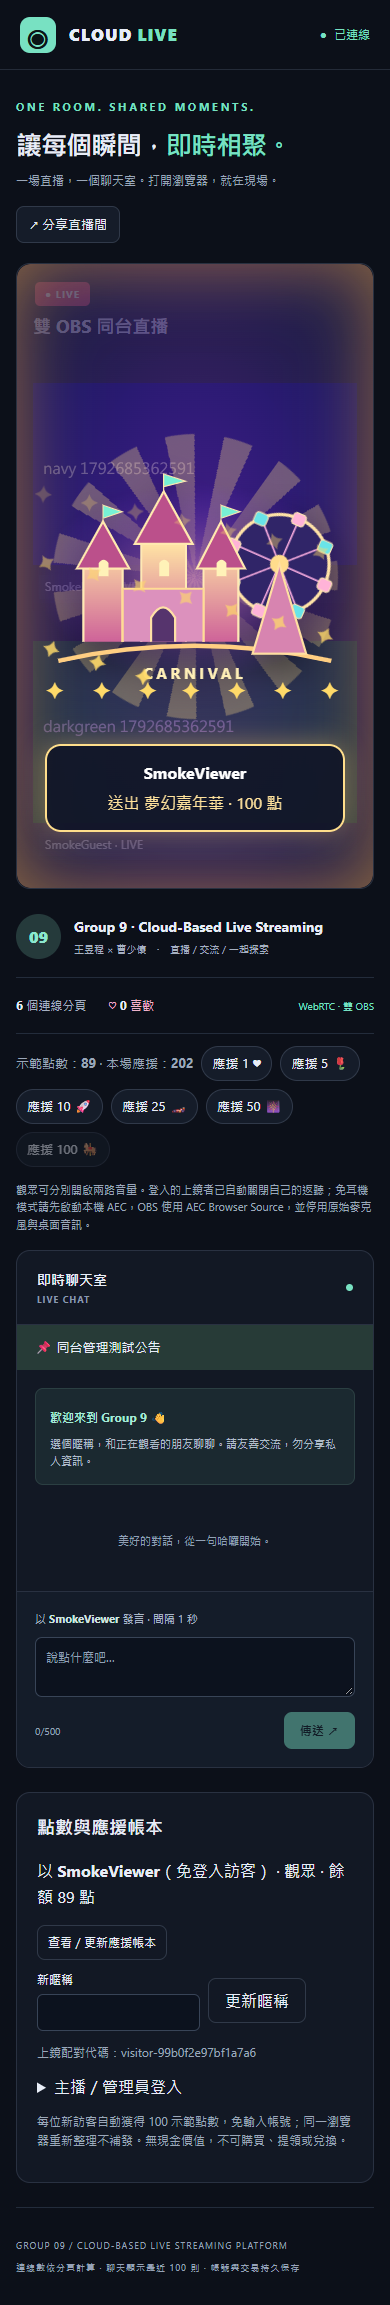
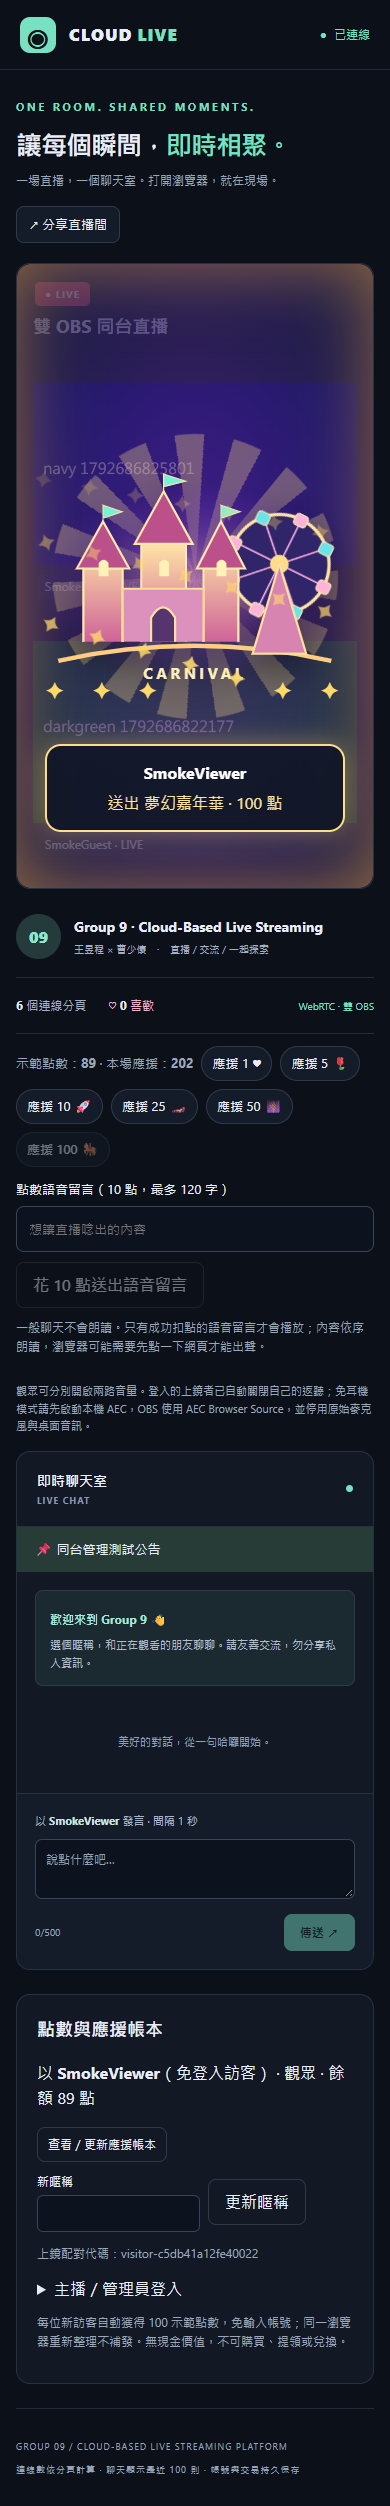
Add Enter chat sending and point-redeemed voice messages

diff --git a/course/src/main.jsx b/course/src/main.jsx
@@ -78,6 +78,7 @@ function App() {
   const [room, setRoom] = useState({ host: null, guest: null, broadcastId: null });
   const [chatSettings, setChatSettings] = useState({ announcement: '', slowSeconds: 1 });
   const [pendingDonation, setPendingDonation] = useState(null);
+  const [speechText, setSpeechText] = useState('');
   const [donating, setDonating] = useState(false);
   const [guestUsername, setGuestUsername] = useState('');
   const [audioChecklist, setAudioChecklist] = useState(false);
@@ -118,18 +119,17 @@ function App() {
       setOverlay({ type: 'chat', ...message });
       window.clearTimeout(window.__group9OverlayTimer);
       window.__group9OverlayTimer = window.setTimeout(() => setOverlay(null), 6000);
-      if ('speechSynthesis' in window) {
-        window.speechSynthesis.cancel();
-        const speech = new SpeechSynthesisUtterance(message.text.slice(0, 120));
-        speech.lang = 'zh-TW'; speech.rate = 1.05; speech.volume = 0.9;
-        window.speechSynthesis.speak(speech);
-      }
     };
     const onDonation = (gift) => {
       if (giftIds.current.has(gift.id)) return;
       giftIds.current.add(gift.id);
       if (giftIds.current.size > 1000) giftIds.current.delete(giftIds.current.values().next().value);
       setGifts((items) => [...items, gift]);
+      if (gift.message && 'speechSynthesis' in window) {
+        const speech = new SpeechSynthesisUtterance(gift.message);
+        speech.lang = 'zh-TW'; speech.rate = 1.05; speech.volume = 0.9;
+        window.speechSynthesis.speak(speech);
+      }
     };
     const onLike = ({ likes }) => { setState((value) => ({ ...value, likes })); setHeart((n) => n + 1); };
     const onDeleted = (id) => { setMessages((items) => items.filter((message) => message.id !== id)); setOverlay((value) => value?.id === id ? null : value); };
@@ -143,17 +143,19 @@ function App() {
   useEffect(() => { if (chat.current) chat.current.scrollTop = chat.current.scrollHeight; }, [messages]);
   useEffect(() => { if (user && pendingDonation && pendingDonation.senderId !== user.id) setPendingDonation(null); }, [user?.id, pendingDonation]);
   function send(event) {
-    event.preventDefault(); setError(''); setSending(true);
+    event.preventDefault();
+    if (!connected || sending || !text.trim()) return;
+    setError(''); setSending(true);
     socket.timeout(5000).emit('chat', text, (timeout, result) => {
       setSending(false);
       if (timeout || result.error) return setError(result?.error || '訊息未確認送達，請先查看聊天室再重試。');
       setText('');
     });
   }
-  async function donate(amount) {
-    const request = pendingDonation || { amount, requestId: crypto.randomUUID(), broadcastId: room.broadcastId, senderId: user?.id };
+  async function donate(amount, message = '') {
+    const request = pendingDonation || { amount, requestId: crypto.randomUUID(), broadcastId: room.broadcastId, senderId: user?.id, message };
     setPendingDonation(request); setDonating(true); setError('');
-    try { await command('donate', request); setPendingDonation(null); }
+    try { await command('donate', request); setPendingDonation(null); if (request.message) setSpeechText(''); }
     catch (error) { onError(error); }
     finally { setDonating(false); }
   }
@@ -177,6 +179,7 @@ function App() {
         <div className="stream-info"><div className="avatar">09</div><div><h2>Group 9 · Cloud-Based Live Streaming</h2><p>王昱程 × 曹少懷 <span>·</span> 直播 / 交流 / 一起探索</p></div></div>
         <div className="stream-actions"><span><b>{connected ? state.viewers : '—'}</b> 個連線分頁</span><button disabled={!connected} aria-label="為直播按讚" onClick={() => socket.timeout(5000).emit('like', (timeout, result) => { if (timeout || result.error) setError(result?.error || '按讚連線逾時。'); })}>♡ <b>{state.likes}</b> 喜歡</button><span className="quality">{useWebRTC ? 'WebRTC' : 'HLS'} · 雙 OBS</span></div>
         <div className="support-bar" aria-label="示範應援"><span>示範點數：<b>{user?.points || 0}</b> · 本場應援：<b>{state.supportTotal || 0}</b></span>{GIFTS.map(({ amount, name, icon }) => <button title={name} key={amount} disabled={!connected || !user || !room.host || room.host.userId === user.id || user.points < amount || donating || Boolean(pendingDonation)} onClick={() => donate(amount)}>應援 {amount}<span aria-hidden="true"> {icon}</span></button>)}{pendingDonation && <><button disabled={donating} onClick={() => donate(pendingDonation.amount)}>重查／重試同一筆應援</button><button disabled={donating} onClick={() => setPendingDonation(null)}>關閉待確認（請先查帳本）</button></>}</div>
+        <form className="speech-redeem" onSubmit={(event) => { event.preventDefault(); if (speechText.trim()) donate(10, speechText.trim()); }}><label>點數語音留言（10 點，最多 120 字）<input maxLength="120" disabled={donating || Boolean(pendingDonation)} value={speechText} onChange={(event) => setSpeechText(event.target.value)} placeholder="想讓直播唸出的內容" required/></label><button disabled={!connected || !user || !room.host || room.host.userId === user.id || user.points < 10 || donating || Boolean(pendingDonation) || !speechText.trim()}>花 10 點送出語音留言</button><p className="muted">一般聊天不會朗讀。只有成功扣點的語音留言才會播放；內容依序朗讀，瀏覽器可能需要先點一下網頁才能出聲。</p></form>
         <div className="play-hint">觀眾可分別開啟兩路音量。登入的上鏡者已自動關閉自己的返聽；免耳機模式請先啟動本機 AEC，OBS 使用 AEC Browser Source，並停用原始麥克風與桌面音訊。{!useWebRTC && 'HLS 影音會比聊天稍晚。'}</div>
         {user && (room.host?.userId === user.id || room.guest?.userId === user.id) && <OBSControls command={command} onError={onError}/>}
         {management && <section className="management" aria-label="OBS 直播間控制"><h2>OBS 直播間控制</h2>{room.host ? <><p>本場主持人：{room.host.nickname} · 第二位：{room.guest?.nickname}</p><button disabled={roomBusy || (room.host.userId !== user.id && user.role !== 'admin')} onClick={() => roomAction('room:end')}>結束本場應援記帳</button><p className="muted">結束記帳不會遙控 OBS；兩台電腦仍需各自按「停止串流」。</p></> : <form className="account-form" onSubmit={(event) => { event.preventDefault(); roomAction('room:start'); }}><label>第二台參與者帳號<input required maxLength="64" value={guestUsername} onChange={(e) => setGuestUsername(e.target.value)}/></label><label className="checklist"><input type="checkbox" checked={audioChecklist} onChange={(e) => setAudioChecklist(e.target.checked)}/>兩台均已啟動 AEC Browser Source、停用原始麥克風與桌面音訊</label><button disabled={!audioChecklist || roomBusy}>開啟雙 OBS 直播間</button></form>}</section>}
@@ -188,7 +191,7 @@ function App() {
           {messages.length === 0 && <div className="empty-chat">美好的對話，從一句哈囉開始。</div>}
           {messages.map((message) => <div className="message" key={message.id}><div className="message-meta"><strong>{message.nickname}</strong><time dateTime={message.at}>{new Date(message.at).toLocaleTimeString('zh-TW', { hour: '2-digit', minute: '2-digit' })}</time></div><p>{message.text}</p>{user && <div className="message-tools"><button onClick={() => { const reason = window.prompt('檢舉原因（最多 200 字）'); if (reason) command('chat:report', { messageId: message.id, reason }).then(() => setNotice('檢舉已送出')).catch(onError); }}>檢舉</button>{management && <><button onClick={() => command('chat:manage', { action: 'delete', messageId: message.id }).catch(onError)}>刪除</button><button onClick={() => command('chat:manage', { action: 'mute', userId: message.userId, minutes: 10 }).catch(onError)}>禁言</button><button onClick={() => command('chat:manage', { action: 'mute', userId: message.userId, minutes: 0 }).catch(onError)}>解除禁言</button></>}</div>}</div>)}
         </div>
-        <div className="composer">{user ? <><div className="identity">以 <b>{user.nickname}</b> 發言 · 間隔 {chatSettings.slowSeconds} 秒</div><form onSubmit={send}><label className="sr-only" htmlFor="message">聊天訊息</label><textarea id="message" rows="2" maxLength="500" placeholder="說點什麼吧…" value={text} onChange={(e) => setText(e.target.value)} disabled={!connected}/><div className="compose-footer"><span>{text.length}/500</span><button className="primary" disabled={!connected || sending || !text.trim()}>{sending ? '傳送中…' : '傳送 ↗'}</button></div></form></> : <p>正在建立訪客身份，連線完成後即可聊天。</p>}
+        <div className="composer">{user ? <><div className="identity">以 <b>{user.nickname}</b> 發言 · 間隔 {chatSettings.slowSeconds} 秒</div><form onSubmit={send}><label className="sr-only" htmlFor="message">聊天訊息</label><textarea id="message" rows="2" maxLength="500" placeholder="說點什麼吧…" value={text} onChange={(e) => setText(e.target.value)} onKeyDown={(event) => { if (event.key === 'Enter' && !event.nativeEvent.isComposing && event.nativeEvent.keyCode !== 229) { event.preventDefault(); event.currentTarget.form.requestSubmit(); } }} disabled={!connected}/><div className="compose-footer"><span>{text.length}/500</span><button className="primary" disabled={!connected || sending || !text.trim()}>{sending ? '傳送中…' : '傳送 ↗'}</button></div></form></> : <p>正在建立訪客身份，連線完成後即可聊天。</p>}
           {error && <p className="error" role="alert">{error}</p>}
         </div>
       </aside></div>

diff --git a/course/src/Account.jsx b/course/src/Account.jsx
@@ -47,6 +47,6 @@ export default function Account({ user, available, onChange, command, onError, s
       {loginForm}
     </>}
     <p className="muted">每位新訪客自動獲得 100 示範點數，免輸入帳號；同一瀏覽器重新整理不補發。無現金價值，不可購買、提領或兌換。</p>
-    {ledger && user && <div className="ledger"><p>累計送出 {ledger.sent} 點 · 主播累計收到 {ledger.received} 點 · 目前餘額 {ledger.points} 點</p><p>每頁 100 筆{ledger.scope === 'all' ? '全站' : '個人'}交易；同一請求重試不會重複扣點。主播收到的點數另列收入，不可提領或轉成可用餘額。</p>{ledger.reconciliation && <p role="status">全站核帳：已發 {ledger.reconciliation.granted} 點 = 錢包 {ledger.reconciliation.wallets} + 主播收入 {ledger.reconciliation.income} · {ledger.reconciliation.balanced ? '帳目平衡' : '帳目異常，請檢查'}</p>}<div className="table-scroll"><table><thead><tr><th>時間</th><th>送出帳號</th><th>收取帳號</th><th>點數</th><th>交易 ID</th></tr></thead><tbody>{ledger.transactions.map((row) => <tr key={row.id}><td>{new Date(row.at).toLocaleString('zh-TW')}</td><td>{row.sender}</td><td>{row.recipient}</td><td>{row.amount}</td><td>{row.id}</td></tr>)}</tbody></table></div>{ledger.transactions.length === 0 && <p>尚無應援交易。</p>}{ledger.nextCursor && <button disabled={loadingLedger} onClick={() => loadLedger(ledger.nextCursor)}>{loadingLedger ? '載入中…' : '載入更早交易'}</button>}</div>}
+    {ledger && user && <div className="ledger"><p>累計送出 {ledger.sent} 點 · 主播累計收到 {ledger.received} 點 · 目前餘額 {ledger.points} 點</p><p>每頁 100 筆{ledger.scope === 'all' ? '全站' : '個人'}交易；同一請求重試不會重複扣點。主播收到的點數另列收入，不可提領或轉成可用餘額。</p>{ledger.reconciliation && <p role="status">全站核帳：已發 {ledger.reconciliation.granted} 點 = 錢包 {ledger.reconciliation.wallets} + 主播收入 {ledger.reconciliation.income} · {ledger.reconciliation.balanced ? '帳目平衡' : '帳目異常，請檢查'}</p>}<div className="table-scroll"><table><thead><tr><th>時間</th><th>送出帳號</th><th>收取帳號</th><th>點數</th><th>語音留言</th><th>交易 ID</th></tr></thead><tbody>{ledger.transactions.map((row) => <tr key={row.id}><td>{new Date(row.at).toLocaleString('zh-TW')}</td><td>{row.sender}</td><td>{row.recipient}</td><td>{row.amount}</td><td>{row.message || '—'}</td><td>{row.id}</td></tr>)}</tbody></table></div>{ledger.transactions.length === 0 && <p>尚無應援交易。</p>}{ledger.nextCursor && <button disabled={loadingLedger} onClick={() => loadLedger(ledger.nextCursor)}>{loadingLedger ? '載入中…' : '載入更早交易'}</button>}</div>}
   </section>;
 }

diff --git a/course/src/GiftOverlay.jsx b/course/src/GiftOverlay.jsx
@@ -18,6 +18,6 @@ export default function GiftOverlay({ gifts, onDone }) {
   return <div key={current.id} className={`gift-stage gift-${gift.kind}`} role="status" aria-label={`${current.nickname} 送出 ${gift.name} ${gift.amount} 點`}>
     <div className="gift-halo"/><div className="gift-sprite" aria-hidden="true"><GiftArt gift={gift}/></div>
     <div className="gift-sparkles" aria-hidden="true">{Array.from({ length: gift.amount >= 50 ? 24 : 8 }, (_, i) => <i key={i} style={{ '--i': i }}>{gift.kind === 'rose' ? '🌸' : gift.kind === 'heart' ? '♥' : '✦'}</i>)}</div>
-    <div className="gift-caption"><strong>{current.nickname}</strong><span>送出 {gift.name} · {gift.amount} 點</span></div>
+    <div className="gift-caption"><strong>{current.nickname}</strong><span>送出 {gift.name} · {gift.amount} 點</span>{current.message && <p>{current.message}</p>}</div>
   </div>;
 }

diff --git a/course/src/style.css b/course/src/style.css
@@ -639,3 +639,8 @@ footer {
 .gift-sprite svg { display:block; width:100%; overflow:visible; }
 .carnival-wheel { animation:gift-spin 18s linear infinite; }
 .rocket-flame { transform-origin:110px 208px; animation:gift-beat .15s ease-in-out infinite alternate; }
+
+.speech-redeem { padding:12px 0; display:flex; flex-wrap:wrap; gap:10px; align-items:end; }
+.speech-redeem label { display:flex; flex:1; min-width:180px; flex-direction:column; gap:6px; font-size:13px; }
+.speech-redeem input,.composer input { width:100%; padding:12px; border:1px solid #384457; border-radius:8px; background:#0c121e; color:#e8edf7; box-sizing:border-box; }
+.speech-redeem p { flex-basis:100%; margin:0; }
